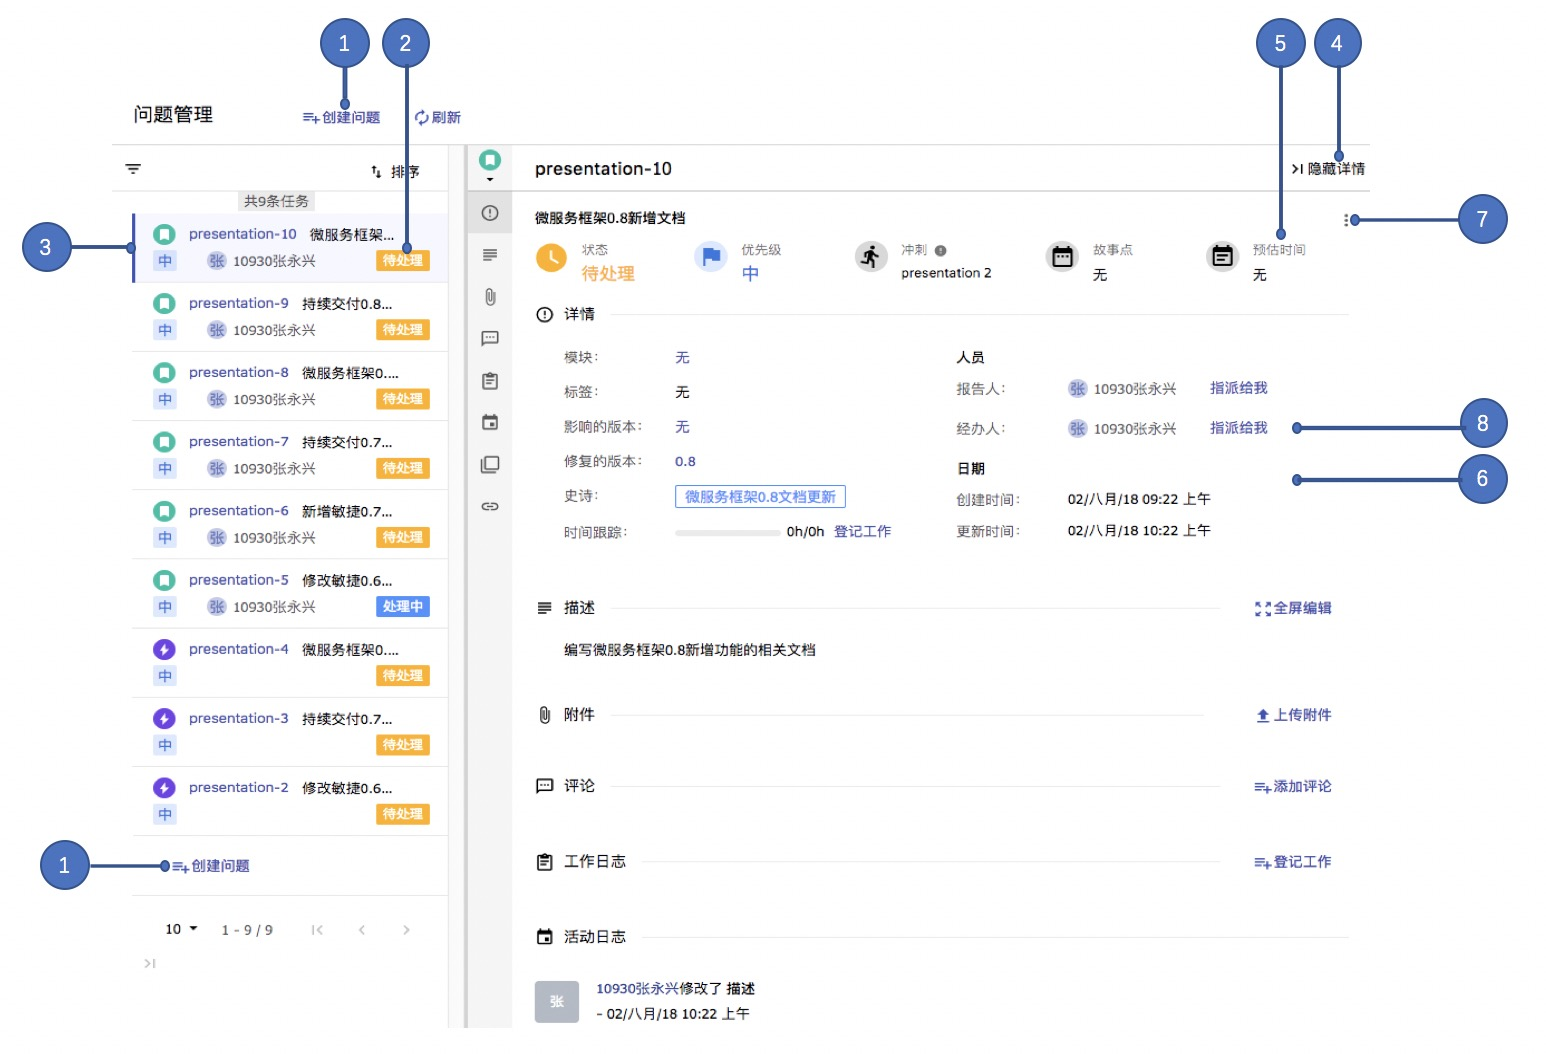
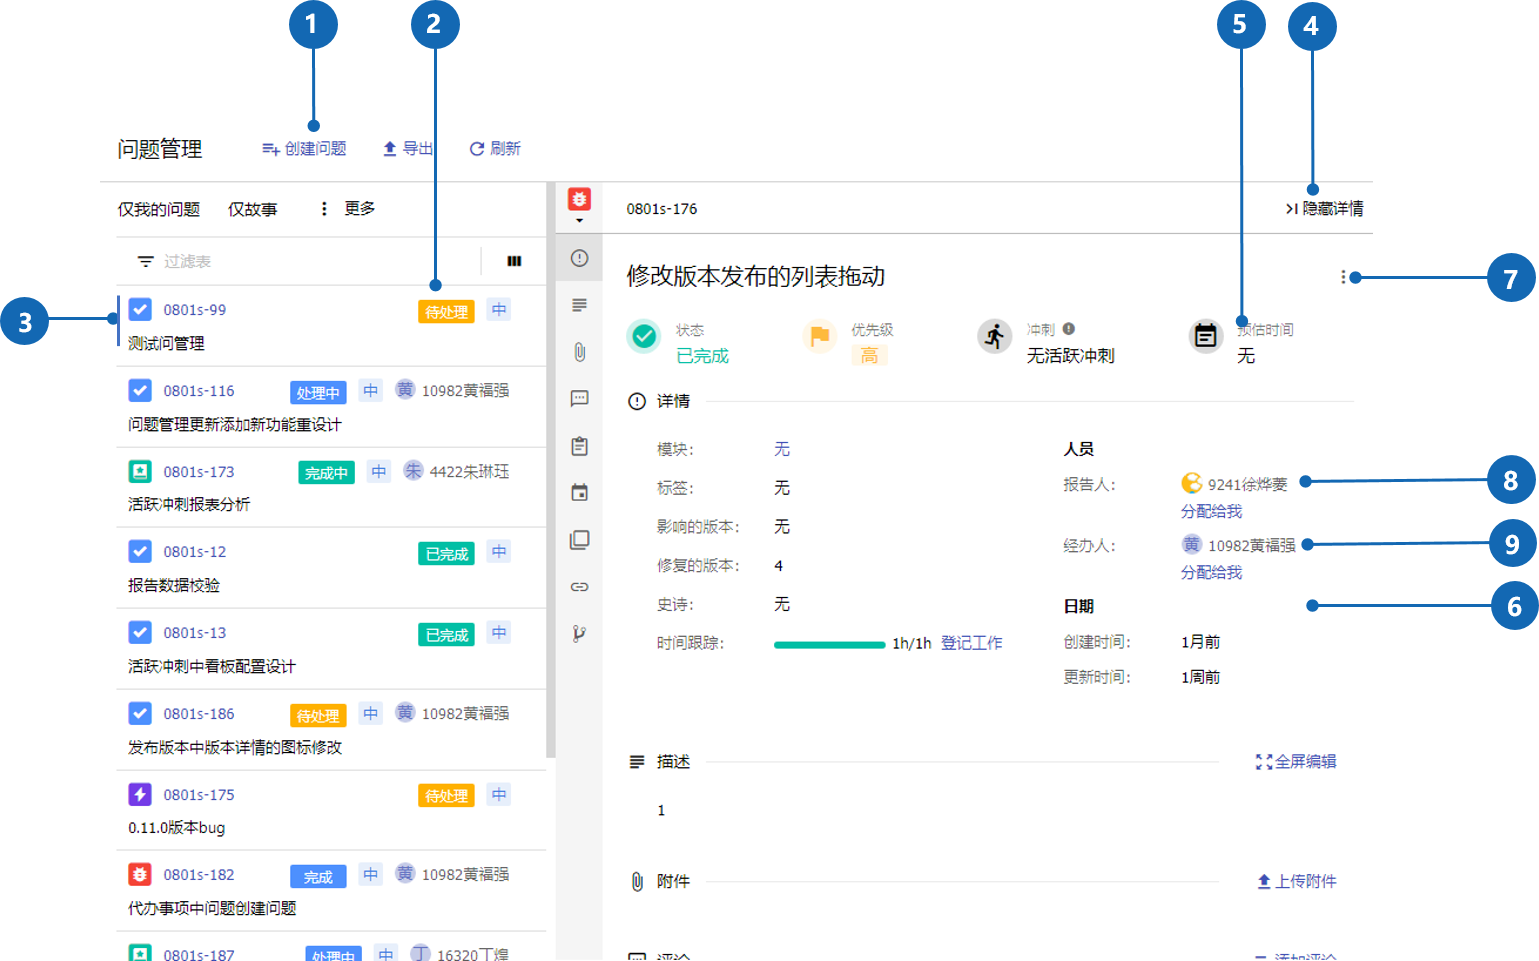
敏捷0.11.0版本用户手册第一次提交

diff --git a/content/docs/user-guide/agile/issue/_index.md b/content/docs/user-guide/agile/issue/_index.md
@@ -23,15 +23,20 @@ weight = 4
 ![enter description here](/docs/user-guide/agile/imge/issue.png "image3")
 
 1. 点击此处[创建一个新问题](../issue/create-issue)
-2. 问题名称，点击可自行编辑
-3. 问题类型，包括`史诗`、`故事`、`缺陷`、`任务`四种类型
+2. 将问题列表中的将全部问题导出至Excel文件中
+3. 快速搜索，点击快速搜索栏的字段直接搜索出字段对应的搜多内容，可以多字段组合
 4. 问题编号，项目中的问题拥有自己独一无二的编号，编号默认由项目code + 数字组成，数字从1开始。
-5. 问题状态，默认有`待处理`、`处理中`、`已完成`三种，用户可自定义状态，详情请参考[设置列](../sprint/manage-kanban#设置列)
-6. 问题优先级别，分为`高`、`中`、`低`三个级别，用不同颜色表示
-7. 问题经办人，问题的实际处理者
-8. 对问题进行排序， 可以选择按照问题名称、类型、优先级、状态、经办人来排序
-9. 筛选器，可以按照类型、编号、概要、优先级、状态对问题进行筛选
-10. 将问题列表导出至Excel文件中
+5. 问题类型，在敏捷中包括`史诗`、`故事`、`缺陷`、`任务`四种类型
+6. 问题概述，对问题的总体概括
+7. 问题状态，默认有`待处理`、`处理中`、`已完成`三种，用户可自定义状态，详情请参考[设置列](../sprint/manage-kanban#设置列)
+8. 问题优先级别，分为`高`、`中`、`低`三个级别，用不同颜色表示
+9. 报告人，问题的报告者
+10. 经办人，问题的实际处理者
+11. 筛选器，可以按照类型、编号、概要、优先级、状态对问题进行筛选
+12. 问题列表字段设置，控制问题列表中列是否显示
+13. 排序，在列表的每个字段右边都有排序标识，点击按照该字段排序
+
+
 
 ## 问题类型
 

diff --git a/content/docs/user-guide/agile/issue/search-issue.md b/content/docs/user-guide/agile/issue/search-issue.md
@@ -19,13 +19,24 @@ weight =3
 
 ## 搜索问题
 
-页面搜索框架中可根据类型、编号、概要、优先级、状态搜索符合条件的问题。
+页面搜索框架中包括快速搜索和条件搜索两种搜索方式<br/>
+![search-issue](/docs/user-guide/agile/imge/search-issue1.png)
 
-- 类型：包括史诗、故事、任务、故障，可勾选多个类型进行搜索
-- 编号：根据问题的任务编号搜索
-- 概要：根据问题的概要搜索
-- 优先级：包括高、中、低3种优先级，可勾选多个类型进行搜索
-- 状态：根据问题所关联的状态搜索
+1. 快速搜索是点击快速搜索栏事先设置好的字段来搜索相应的问题，除了页面中显示的快速搜索词，在`更多`中还有一些词条，可以同时选择多个词条来对问题进行筛选。
+2. 条件搜索是根据任务编号、问题类型、概要、状态、优先级、报告人、经办人、冲刺、模块、史诗、版本、标签搜索符合条件的问题。
+
+    - 任务编号：根据问题的任务编号搜索
+    - 问题类型：包括史诗、故事、任务、故障，可勾选多个类型进行搜索
+    - 概要：根据问题的概要搜索
+    - 状态：根据问题所关联的状态搜索（在选择框中选择）
+    - 优先级：包括高、中、低3种优先级，可勾选多个类型进行搜索
+    - 报告人：根据问题的报告者（不一定是创建问题的人）搜索
+    - 经办人：根据问题当前处理人搜索
+    - 冲刺：根据问题所属的冲刺搜索
+    - 模块：根据问题属于的模块搜索
+    - 史诗：根据问题属于的史诗搜索
+    - 版本：根据问题属于的版本搜索
+    - 标签：根据问题的标签属性搜索
 
 <blockquote class="note">
 

diff --git a/content/docs/user-guide/agile/issue/manage-issue.md b/content/docs/user-guide/agile/issue/manage-issue.md
@@ -17,7 +17,8 @@ weight = 2
 5. 此处显示问题预计剩余时间，会根据工作日志登记的工作时间进行实时核减。
 6. 问题详细信息视图，包含`状态`、`优先级`、`模块`、`标签`、`影响版本`等信息，用户自行编辑设置。
 7. 单击可选择删除问题、登记工作日志、创建子任务、将该任务转化为子任务、复制问题、创建分支。
-8. 填写经办人可将问题指派给他人，点击`指派给我`则将问题快速分配给自己。
+8. 填写报告人可将问题报告人填写为他人，点击`指派给我`则将问题报告人设置为自己。
+9. 填写经办人可将问题指派给他人，点击`指派给我`则将问题快速分配给自己。
 
 
 ## 查看和编辑问题的细节
